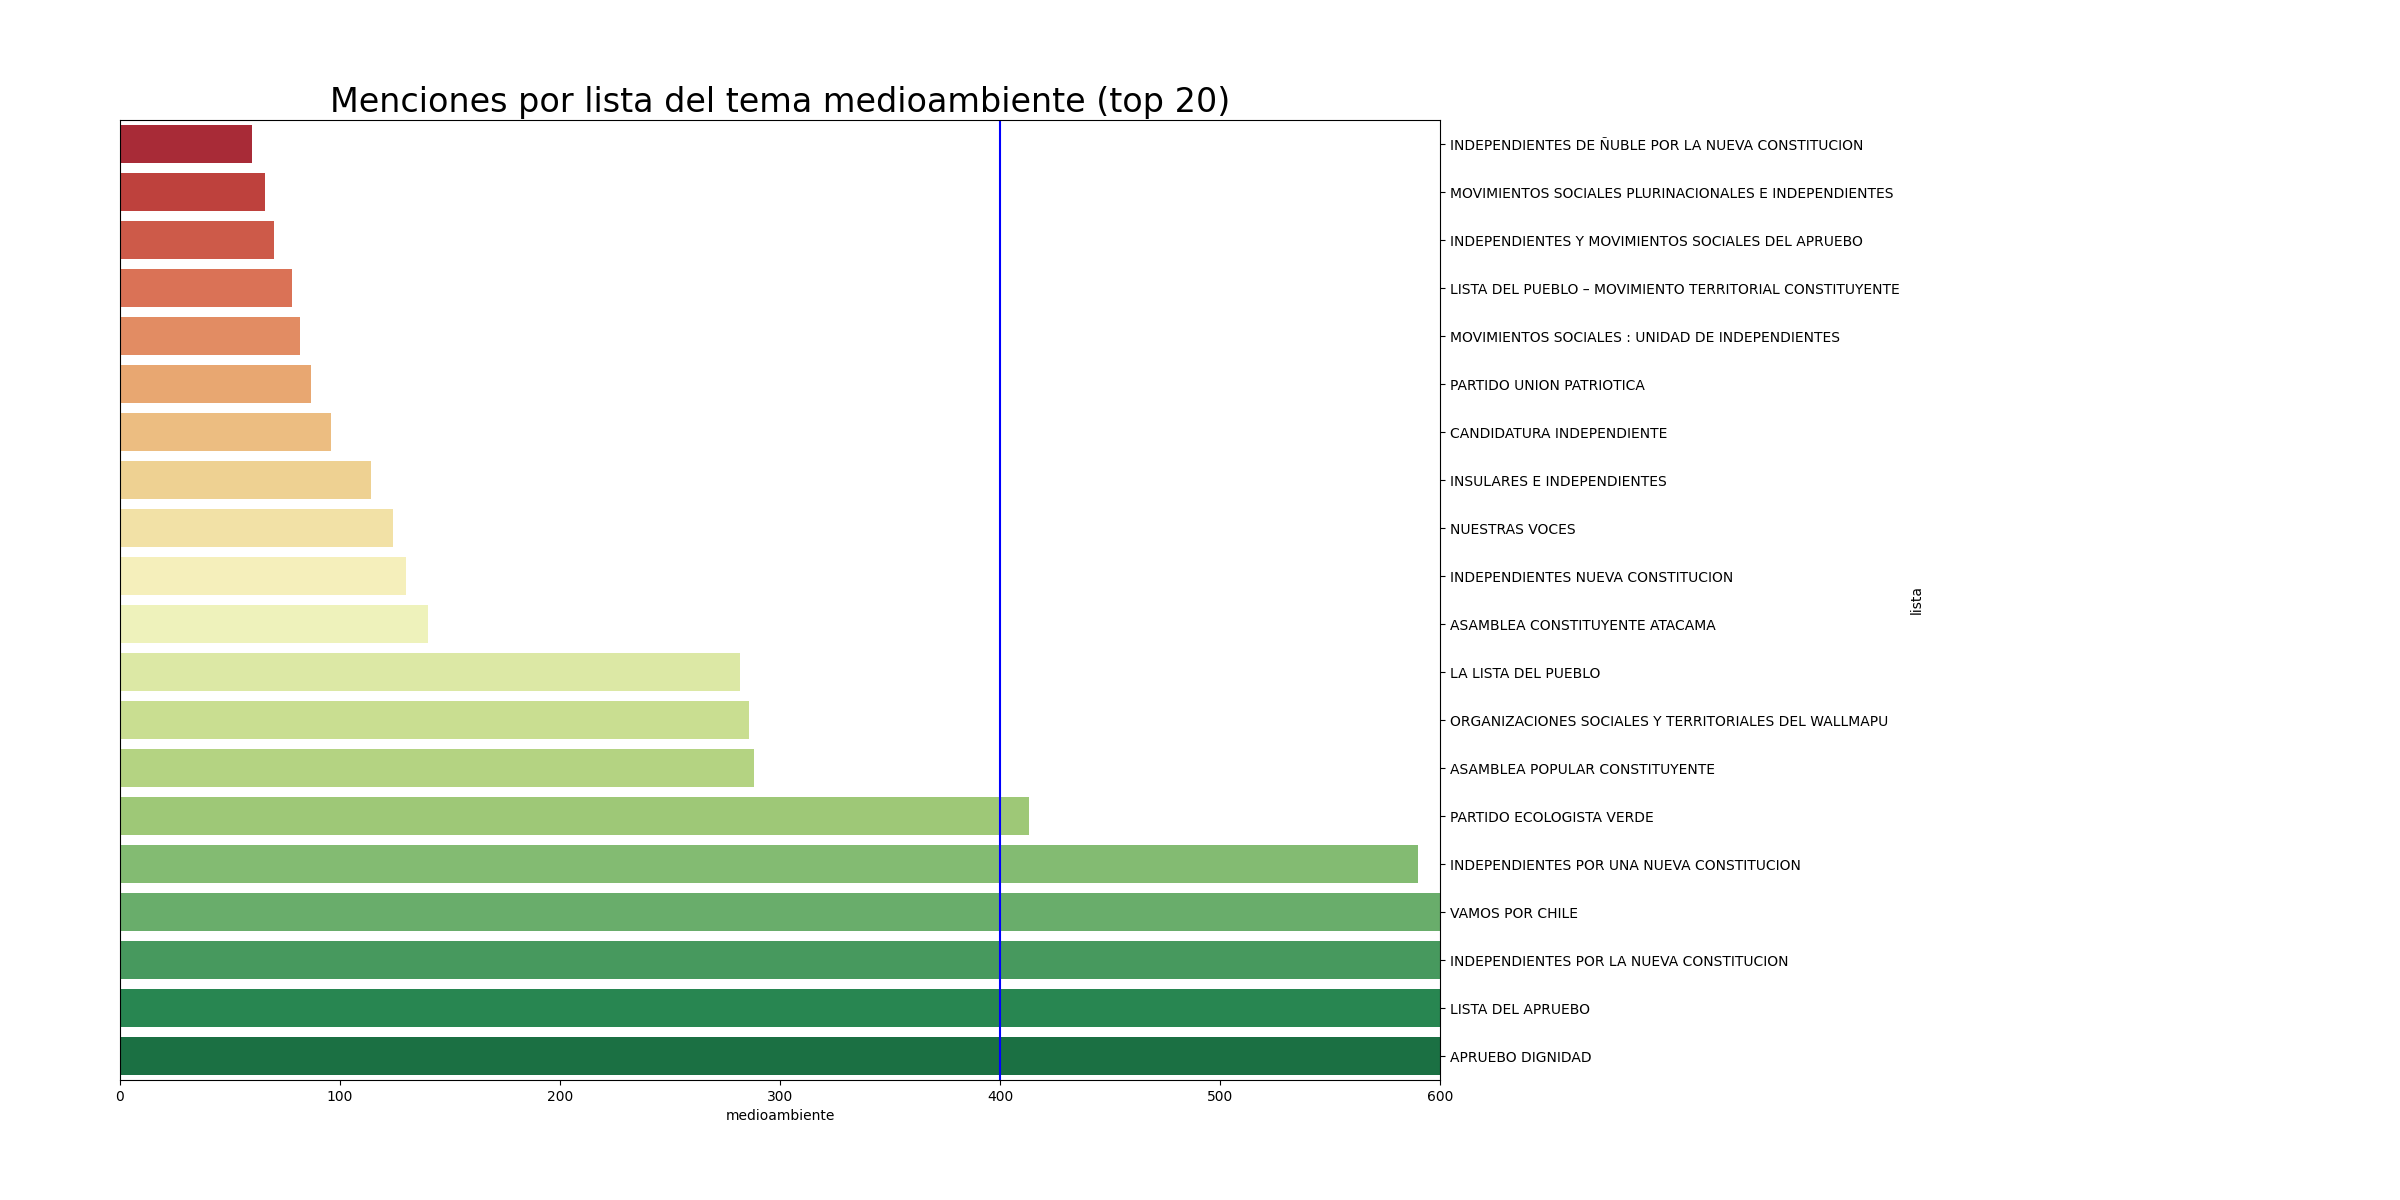
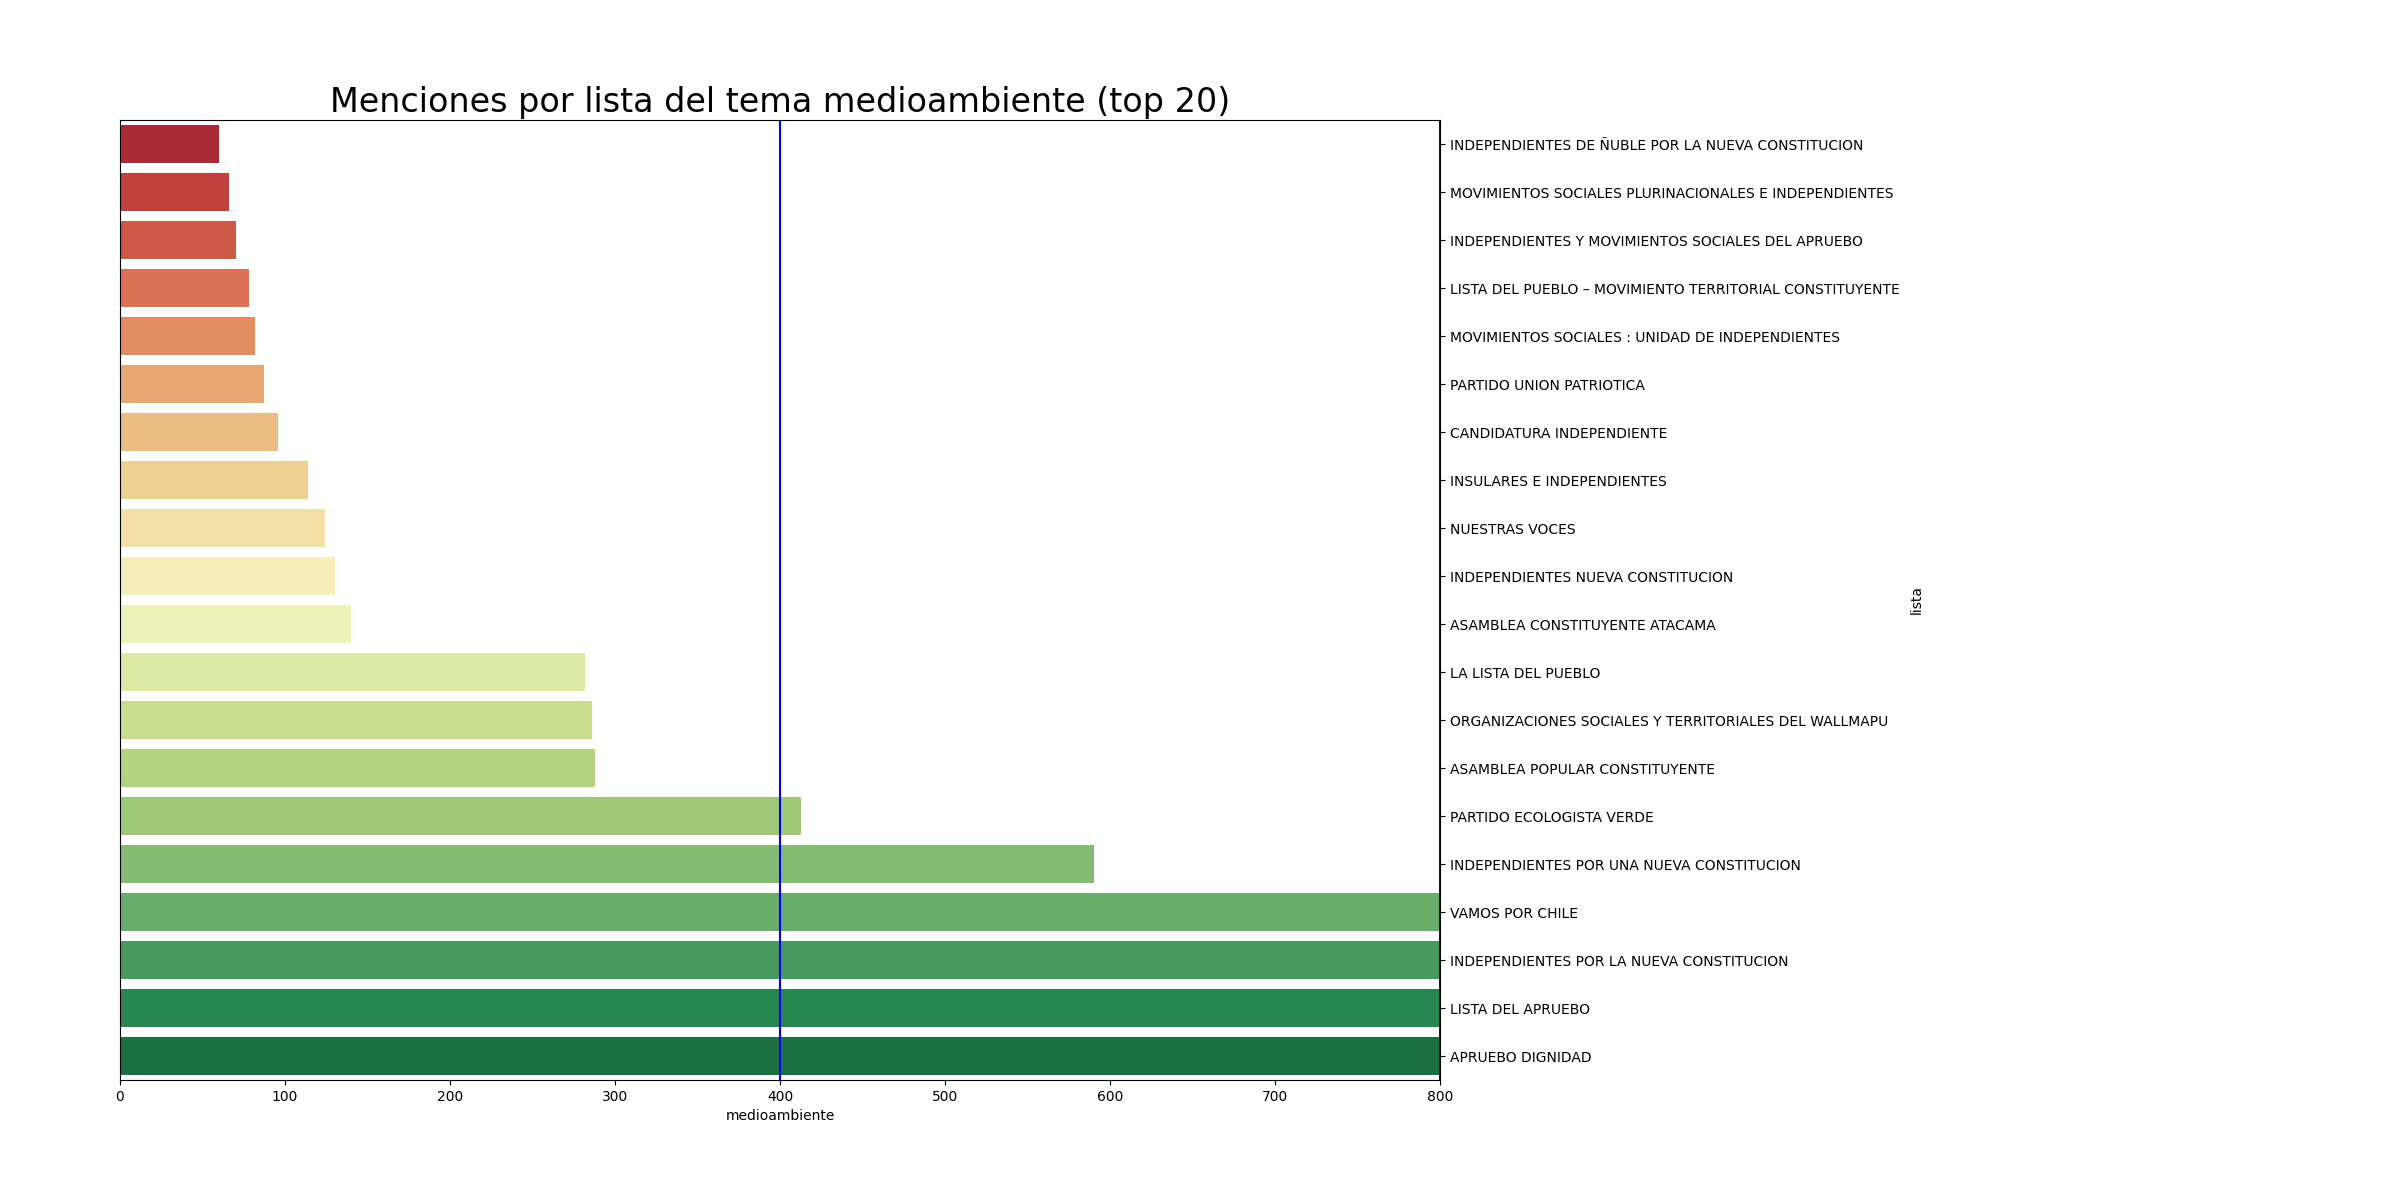
pushing it

Changed region(s): [[0.0938, 0.0925, 0.1875, 0.555], [0.2188, 0.5242, 0.4375, 0.7092], [0.4375, 0.6783, 0.5938, 0.74]]

diff --git a/plotters.py b/plotters.py
@@ -188,7 +188,7 @@ for xx in (1000,2000):
 ax.yaxis.set_label_position("right")
 ax.yaxis.tick_right()   # all this works!
 #plt.margins(x=0.4)
-plt.xlim([0,2600])
+plt.xlim([0,3000])
 plt.title('Menciones ambientales TOTALES por lista (top 20)', size=24)
 plt.subplots_adjust(left=0.0, right=0.6, top=0.9, bottom=0.1)
 plt.savefig('static/barplot_listas.png')
@@ -207,7 +207,7 @@ for tema in temas:
     ax.yaxis.tick_right()   # all this works!
     plt.subplots_adjust(left=0.05, right=0.6, top=0.9, bottom=0.1)
     #plt.margins(x=0.2)
-    plt.xlim([0,1000] if tema=='agua' else [0,600])
+    plt.xlim([0,1000] if tema=='agua' else [0,800])
     plt.title(f'Menciones por lista del tema {tema} (top 20)', size=24)
     plt.savefig(f'static/barplot_listas_{tema}.png')
     plt.close()
